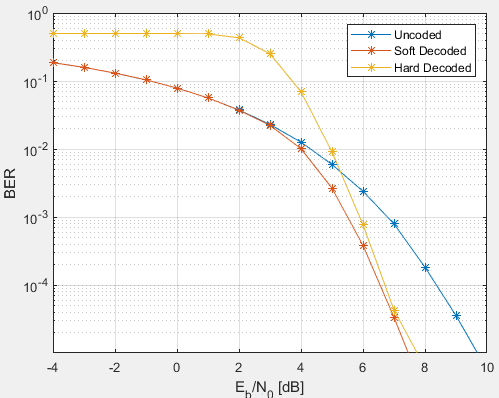
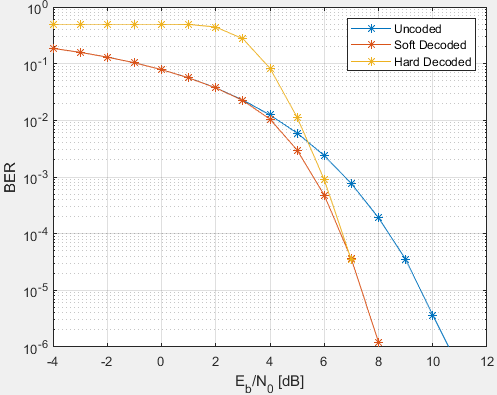
Pretty Soft BER fig

Changed region(s): [[0.0302, 0.0, 0.996, 1.0], [0.0, 0.3949, 0.0302, 0.5165]]

diff --git a/2 Low-density parity check code/HardSoftDecoderBER.m b/2 Low-density parity check code/HardSoftDecoderBER.m
@@ -3,7 +3,7 @@ addpath('../1 Optimal communication chain over the ideal channel');
 
 %% Parameters
 
-N_packet = 192;
+N_packet = 384;
 N_bit_per_pack = 128;
 CodeRate = 1/2;
 N_bits=N_bit_per_pack*N_packet;
@@ -18,7 +18,7 @@ N_taps = 101; %number of taps of the filter
 beta = 0.3; %Makes the window smoother as beta increases // roll-off factor given in the specifications
 
 
-EbNoArray = -4:1:15; %Energy of one by over the PSD of the noise ratio (in dB)
+EbNoArray = -4:1:16; %Energy of one by over the PSD of the noise ratio (in dB)
 Average = 100;
 BER_uncoded = zeros(1,length(EbNoArray));
 BER_SoftDecoded = zeros(1,length(EbNoArray));
